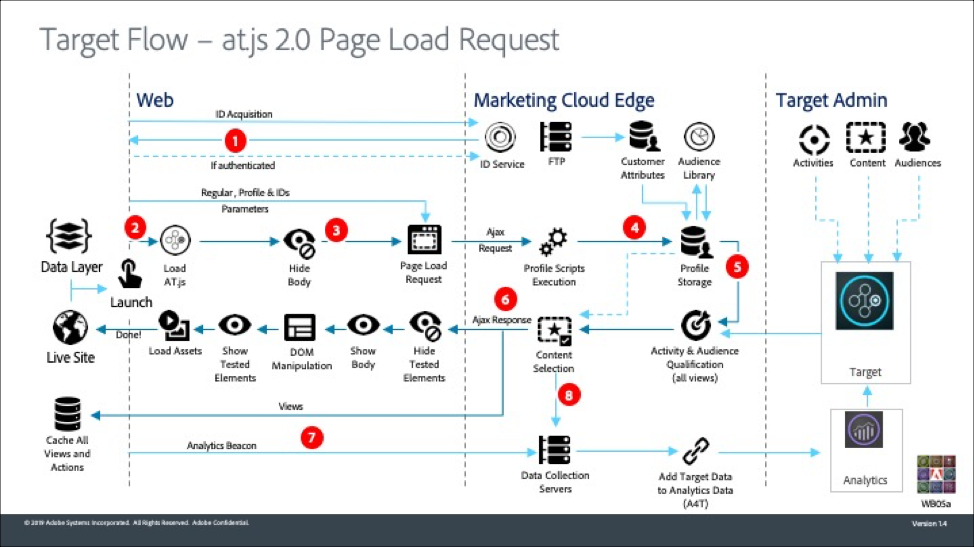
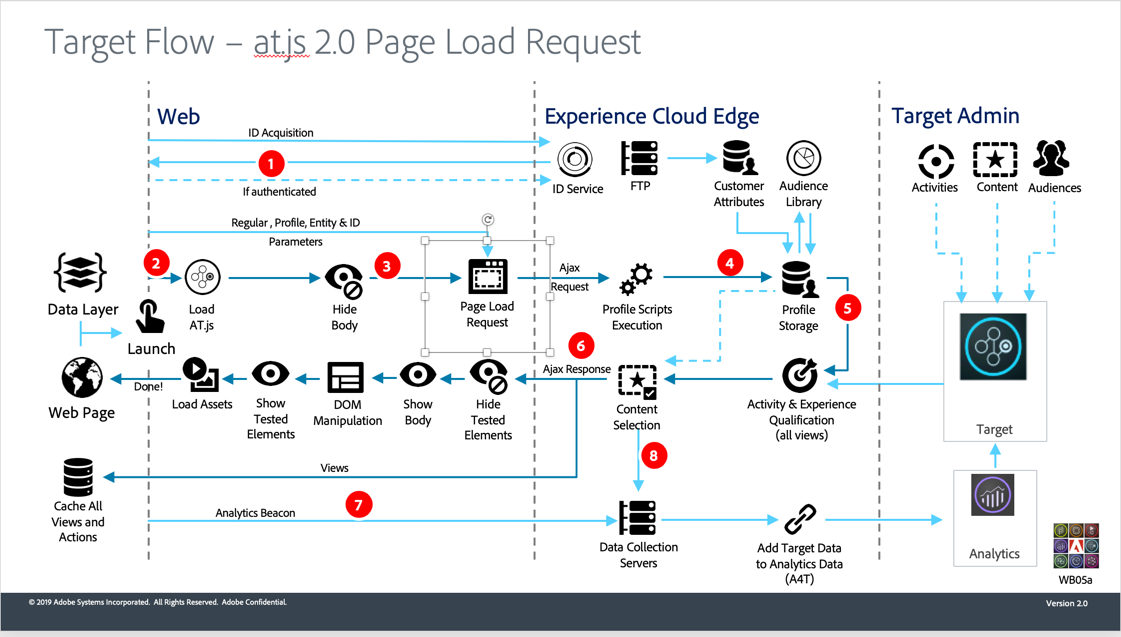
dwrights changes and vids

diff --git a/help/c-implementing-target/c-implementing-target-for-client-side-web/c-how-atjs-works/how-atjs-works.md b/help/c-implementing-target/c-implementing-target-for-client-side-web/c-how-atjs-works/how-atjs-works.md
@@ -11,7 +11,7 @@ uuid: 8ed04881-3dd9-496f-9c9c-feb9c740ed80
 
 # How at.js works{#how-at-js-works}
 
-In the [!DNL Target] implementation illustrated below, the following [!DNL Adobe Experience Cloud] solutions are implemented: Analytics, Target, and Audience Management. In addition, the following Experience Cloud core services are implemented: Dynamic Tag Management (Activation), Audiences, and Visitor ID Service.
+In the [!DNL Target] implementation illustrated below, the following [!DNL Adobe Experience Cloud] solutions are implemented: Analytics, Target, and Audience Management. In addition, the following Experience Cloud core services are implemented: Adobe Launch, Audiences, and Visitor ID Service.
 
 ## What is the difference between At.js 1.*x* and At.js 2.0.0 workflow diagrams?
 
@@ -26,9 +26,9 @@ From a high level view, there are a couple of differences between the two versio
 
 The following diagrams help you understand the workflow of at.js 2.0.0 with Views and how this enhances the SPA integration. To get a better introduction of the concepts used in at.js 2.0.0, see [Single Page Application implementation](/help/c-implementing-target/c-implementing-target-for-client-side-web/how-to-deployatjs/target-atjs-single-page-application.md).
 
-![Target flow with at.js 2.0](/help/c-implementing-target/c-implementing-target-for-client-side-web/assets/system-diagram-atjs-20.png)
+![Target flow with at.js 2.0.0](/help/c-implementing-target/c-implementing-target-for-client-side-web/assets/system-diagram-atjs-20.png)
 
-|Call|Details|
+|Step|Details|
 | --- | --- |
 |1|Call returns the [!DNL Experience Cloud ID] if the user is authenticated; another call syncs the customer ID.|
 |2|The at.js library loads synchronously and hides the document body.<br>at.js can also be loaded asynchronously with an option prehiding snippet implemented on the page.|
@@ -43,7 +43,7 @@ Now, wherever `triggerView()` is implemented on your SPA, the Views and actions 
 
 ![Target flow at.js 2.0 triggerView](/help/c-implementing-target/c-implementing-target-for-client-side-web/assets/atjs-20-triggerview.png)
 
-|Call|Details|
+|Step|Details|
 | --- | --- |
 |1|`triggerView()` is called in the SPA to render the View and apply actions to modify visual elements.|
 |2|Targeted content for the view is read from the cache.|
@@ -56,9 +56,17 @@ Now, wherever `triggerView()` is implemented on your SPA, the Views and actions 
 
 ![](assets/target-flow.png)
 
-| Call | Description | Call | Description |
+| Step | Description | Call | Description |
 |--- |--- |--- |--- |
 |1|Call returns the [!DNL Experience Cloud ID] (MCID) if the user is authenticated; another call syncs the customer ID.|2|The at.js library loads synchronously and hides the document body.|
 |3|A global mbox request is made including all configured parameters, MCID, SDID, and customer ID (optional).|4|Profile scripts execute and then feed into the Profile Store. The Store requests qualified audiences from the [!UICONTROL Audience Library] (for example, audiences shared from [!DNL Adobe Analytics], [!DNL Audience Manager], etc.).<br>Customer attributes are sent to the [!DNL Profile Store] in a batch process.|
 |5|Based on the URL, mbox parameters, and profile data, [!DNL Target] decides which activities and experiences to return to the visitor.|6|Targeted content is sent back to page, optionally including profile values for additional personalization.<br>The experience is revealed as quickly as possible without flicker of default content.|
 |7|[!DNL Analytics] data is sent to Data Collection servers.|8|[!DNL Target] data is matched to [!DNL Analytics] data via the SDID and is processed into the [!DNL Analytics]  reporting storage.<br>[!DNL Analytics] data can then be viewed in both [!DNL Analytics] and  [!DNL Target] via [!DNL Analytics for Target] (A4T) reports.|
+
+## Training video: at.js 2.0.0 architectural diagram
+
+at.js 2.0.0 enhances Adobe Target's support for SPAs and integrates with other Experience Cloud solutions. This video explains how everything comes together.
+
+>[!VIDEO](https://video.tv.adobe.com/v/26250)
+
+See [Understanding how at.js 2.0.0 works](https://helpx.adobe.com/target/kt/using/atjs20-diagram-technical-video-understand.html) for more information.

diff --git a/help/c-implementing-target/c-implementing-target-for-client-side-web/how-to-deployatjs/target-atjs-single-page-application.md b/help/c-implementing-target/c-implementing-target-for-client-side-web/how-to-deployatjs/target-atjs-single-page-application.md
@@ -15,7 +15,7 @@ Traditional websites worked on "Page-to-Page" navigation models, otherwise known
 
 ![Traditional page lifecycle vs. SPA lifecycle](/help/c-experiences/assets/trad-vs-spa.png)
 
-The newest version of at.js 2.0.0 provides rich features that equip your business to execute personalization on next-generation, client-side technologies. This version is focused on improving at.js to have harmonious interactions with SAPs. 
+at.js 2.0.0 provides rich features that equip your business to execute personalization on next-generation, client-side technologies. This version is focused on improving at.js to have harmonious interactions with SPAs. 
 
 Here are some benefits to using at.js 2.0.0 that are not available in previous versions:
 
@@ -184,13 +184,13 @@ Now that we have covered what Adobe Target Views are, we can leverage this conce
    }
   ```
 
-## at.js 2.0 system diagrams
+## at.js 2.0.0 system diagrams
 
 The following diagrams help you understand the workflow of at.js 2.0.0 with Views and how this enhances the SPA integration. To get a better introduction of the concepts used in at.js 2.0.0, see [Single Page Application implementation](/help/c-implementing-target/c-implementing-target-for-client-side-web/how-to-deployatjs/target-atjs-single-page-application.md).
 
 ![Target flow with at.js 2.0](/help/c-implementing-target/c-implementing-target-for-client-side-web/assets/system-diagram-atjs-20.png)
 
-|Call|Details|
+|Step|Details|
 | --- | --- |
 |1|Call returns the [!DNL Experience Cloud ID] if the user is authenticated; another call syncs the customer ID.|
 |2|The at.js library loads synchronously and hides the document body.<br>at.js can also be loaded asynchronously with an option prehiding snippet implemented on the page.|
@@ -205,7 +205,7 @@ Now, wherever `triggerView()` is implemented on your SPA, the Views and actions 
 
 ![Target flow at.js 2.0 triggerView](/help/c-implementing-target/c-implementing-target-for-client-side-web/assets/atjs-20-triggerview.png)
 
-|Call|Details|
+|Step|Details|
 | --- | --- |
 |1|`triggerView()` is called in the SPA to render the View and apply actions to modify visual elements.|
 |2|Targeted content for the view is read from the cache.|
@@ -217,3 +217,25 @@ Now, wherever `triggerView()` is implemented on your SPA, the Views and actions 
 ## Single Page App Visual Experience Composer
 
 After you have completed installing at.js 2.0.0 and adding `triggerView()` to your site, use the VEC to run A/B and XT activities. For more information, see [Single Page App (SPA) Visual Experience Composer](/help/c-experiences/spa-visual-experience-composer.md).
+
+## Training videos
+
+The following videos contain more information:
+
+### Understanding how at.js 2.0.0 works
+
+>[!VIDEO](https://video.tv.adobe.com/v/26250)
+
+See [Understanding how at.js 2.0.0 works](https://helpx.adobe.com/target/kt/using/atjs20-diagram-technical-video-understand.html) for more information.
+
+### Implement at.js 2.0.0 in a SPA
+
+>[!VIDEO](https://video.tv.adobe.com/v/26248)
+
+See [Implement Adobe Target's at.js 2.0 in a Single Page Application (SPA)](/https://helpx.adobe.com/target/kt/using/atjs2-single-page-application-technical-video-implement.html) for more information.
+
+### Using the VEC for SPAs in Adobe Target
+
+>[!VIDEO](https://video.tv.adobe.com/v/26249)
+
+See [Using the Visual Experience Composer for Single Page Application (SPA VEC) in Adobe Target](https://helpx.adobe.com/target/kt/using/visual-experience-composer-for-single-page-applications-feature-video-use.html) for more information.

diff --git a/help/r-release-notes/doc-change.md b/help/r-release-notes/doc-change.md
@@ -17,12 +17,12 @@ This page lists important changes made to the Target documentation.
 
 |Date|Topic|Changes|
 | --- | --- | --- |
-|February 19, 2019|[Single Page App (SPA) Visual Experience Composer](/help/c-experiences/spa-visual-experience-composer.md)|New topic.|
-||[Single Page Application implementation](/help/c-implementing-target/c-implementing-target-for-client-side-web/how-to-deployatjs/target-atjs-single-page-application.md)|New topic.|
+|February 19, 2019|[Single Page App (SPA) Visual Experience Composer](/help/c-experiences/spa-visual-experience-composer.md)|New topic and training videos.|
+||[Single Page Application implementation](/help/c-implementing-target/c-implementing-target-for-client-side-web/how-to-deployatjs/target-atjs-single-page-application.md)|New topic and training videos.|
 ||[at.js version details](/help/c-implementing-target/c-implementing-target-for-client-side-web/target-atjs-versions.md)|Added information about at.js versions 1.7.0 and 2.0.0.|
-||[Upgrading from at.js 1.x to at.js 2.0.0](/help/c-implementing-target/c-implementing-target-for-client-side-web/upgrading-from-atjs-1x-to-atjs-20.md)|New topic.|
+||[Upgrading from at.js 1.x to at.js 2.0.0](/help/c-implementing-target/c-implementing-target-for-client-side-web/upgrading-from-atjs-1x-to-atjs-20.md)|New topic and training video.|
 ||[at.js functions](/help/c-implementing-target/c-implementing-target-for-client-side-web/cmp-at.js-functions.md)|Updated topic to reflect changes with the introduction of at.js 2.0.0.<br>There are three new fuctions available for at.js 2.0.0.<ul><li>adobe.target.getOffers(options)</li><li>adobe.target.applyOffers(options)</li><li>adobe.target.triggerView (viewName, options)</li></ul>|
-||[How at.js works](/help/c-implementing-target/c-implementing-target-for-client-side-web/c-how-atjs-works/how-atjs-works.md)|Updated topic to reflect changes with the introduction of at.js 2.0.0.|
+||[How at.js works](/help/c-implementing-target/c-implementing-target-for-client-side-web/c-how-atjs-works/how-atjs-works.md)|Updated topic to reflect changes with the introduction of at.js 2.0.0. and added training video.|
 ||[How at.js manages flicker](/help/c-implementing-target/c-implementing-target-for-client-side-web/c-how-atjs-works/manage-flicker-with-atjs.md)|Updated topic to reflect changes with the introduction of at.js 2.0.0.|
 ||[at.js Frequently Asked Questions](/help/c-implementing-target/c-implementing-target-for-client-side-web/c-target-atjs-faq/target-atjs-faq.md)|Updated topic to reflect changes with the introduction of at.js 2.0.0.|
 ||[Debug at.js using the Adobe Experience Cloud Debugger](/help/c-implementing-target/c-implementing-target-for-client-side-web/c-target-debugging-atjs/target-debugging-atjs.md)|Added note explaining that the Adobe Experience Cloud Debugger Network Request and Mbox Trace features are not yet supported for At.js 2.0.0.|

diff --git a/help/c-implementing-target/c-implementing-target-for-client-side-web/upgrading-from-atjs-1x-to-atjs-20.md b/help/c-implementing-target/c-implementing-target-for-client-side-web/upgrading-from-atjs-1x-to-atjs-20.md
@@ -19,7 +19,7 @@ Here are some benefits of using at.js 2.0.0 that are not available in previous v
 * Tremendously improve your end-users' experiences on your site because offers are shown immediately via the cache without any lag time that traditional server calls introduce.
 * Simple one-line of code and one-time developer setup to enable your marketers to create and run A/B and XT activities via the VEC on your SPAs.
 
-## at.js 2.0 system diagrams
+## at.js 2.0.0 system diagrams
 
 The following diagrams help you understand the workflow of at.js 2.0.0 with Views and how this enhances the SPA integration. To get a better introduction of the concepts used in at.js 2.0.0, see [Single Page Application implementation](/help/c-implementing-target/c-implementing-target-for-client-side-web/how-to-deployatjs/target-atjs-single-page-application.md).
 
@@ -366,3 +366,11 @@ The following tables explain at.js. 2.0.0 compatibility with different activity 
 |`?mboxTrace`|Yes|
 |`?mboxSession`|No|
 |`?mboxOverride.browserIp`|No|
+
+## Training video: at.js 2.0.0 architectural diagram
+
+at.js 2.0.0 enhances Adobe Target's support for SPAs and integrates with other Experience Cloud solutions. This video explains how everything comes together.
+
+>[!VIDEO](https://video.tv.adobe.com/v/26250)
+
+See [Understanding how at.js 2.0.0 works](https://helpx.adobe.com/target/kt/using/atjs20-diagram-technical-video-understand.html) for more information.

diff --git a/help/c-experiences/spa-visual-experience-composer.md b/help/c-experiences/spa-visual-experience-composer.md
@@ -310,7 +310,7 @@ Yes, at.js 2.0 supports A4T for SPA via the `triggerView()` function given that 
 
 ![Target Flow](/help/c-experiences/assets/atjs-spa-flow.png)
 
-|Call|Description|
+|Step|Description|
 | --- | --- |
 |1|`triggerView()` is called in the SPA to render a view and apply actions to modify visual elements associated to the view.|
 |2|Targeted content for the view is read from the cache.|
@@ -360,3 +360,9 @@ If you want to use Auto-Target A/B activities, you can move all of your actions 
 |VEC options|All|
 |Click-tracking|Yes|
 |Multi-Activity Delivery|Yes|
+
+## Training video: Using the VEC for SPAs in Adobe Target
+
+>[!VIDEO](https://video.tv.adobe.com/v/26249)
+
+See [Using the Visual Experience Composer for Single Page Application (SPA VEC) in Adobe Target](https://helpx.adobe.com/target/kt/using/visual-experience-composer-for-single-page-applications-feature-video-use.html) for more information.
